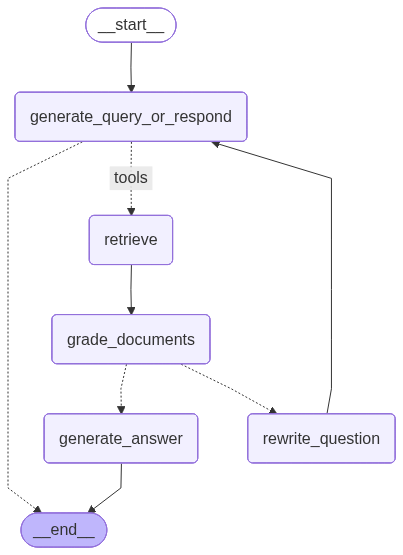
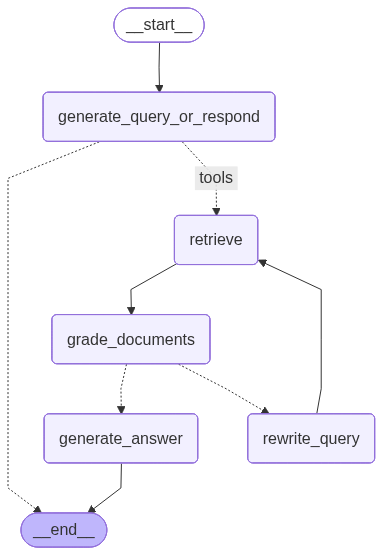
feat: enhance Agentic RAG use case with query rewriting logic and add corresponding unit test

diff --git a/multimodal_rag/usecases/langgraph_agent/agentic_rag.py b/multimodal_rag/usecases/langgraph_agent/agentic_rag.py
@@ -84,6 +84,7 @@ class AgenticRAGUseCase:
                 Retrieved document content as formatted string with chunk IDs
             """
             try:
+                query = state["search_query"] or query # prioritize the customized query in later iterations in the loop
                 vector = await self._embedding_service.embed_single(query)
 
                 chunks = await self._document_repository.search_chunks(
@@ -223,14 +224,14 @@ class AgenticRAGUseCase:
 
     def _route_after_grading(
         self, state: AgentState
-    ) -> Literal["generate_answer", "rewrite_question"]:
+    ) -> Literal["generate_answer", "rewrite_query"]:
         """Conditional edge that routes based on document relevance grading."""
         document_relevance = state.get("document_relevance", "no")
 
         if document_relevance == "yes":
             return "generate_answer"
         else:
-            return "rewrite_question"
+            return "rewrite_query"
 
     async def _rewrite_query(self, state: AgentState) -> Dict[str, str]:
         """Rewrite the original user question for better retrieval."""
@@ -299,7 +300,7 @@ class AgenticRAGUseCase:
             )
             workflow.add_node("retrieve", ToolNode([self._retriever_tool]))
             workflow.add_node("grade_documents", self._grade_documents)
-            workflow.add_node("rewrite_question", self._rewrite_query)
+            workflow.add_node("rewrite_query", self._rewrite_query)
             workflow.add_node("generate_answer", self._generate_answer)
 
             workflow.add_edge(START, "generate_query_or_respond")
@@ -321,7 +322,7 @@ class AgenticRAGUseCase:
             )
 
             workflow.add_edge("generate_answer", END)
-            workflow.add_edge("rewrite_question", "generate_query_or_respond")
+            workflow.add_edge("rewrite_query", "retrieve")
 
             checkpointer = InMemorySaver()
             self._graph = workflow.compile(checkpointer=checkpointer)

diff --git a/tests/unit/usecases/test_agentic_rag.py b/tests/unit/usecases/test_agentic_rag.py
@@ -117,6 +117,37 @@ class TestAgenticRAGUseCase:
         mock_document_repository.search_chunks.assert_called()
 
     @pytest.mark.asyncio
+    async def test_process_question_requiring_query_rewriting(
+        self, agentic_rag_use_case, mock_document_repository, mock_llm_service
+    ):
+        """Test processing a question that requires document retrieval."""
+        mock_llm_service.generate_content_with_tools.return_value = {
+            "text": "",
+            "function_calls": [
+            {
+                "name": "retrieve_documents",
+                "args": {"query": "symptoms of type 2 diabetes mellitus"}
+            }
+            ],
+            "has_function_call": True
+        }
+        
+        mock_llm_service.generate_content.side_effect = [
+            "no",  # Document grading response
+            "symptoms of type 2 diabetes mellitus diagnosis criteria", # Rewritten query
+            "yes",
+            "Machine learning is a subset of artificial intelligence."
+        ]
+        
+        response = await agentic_rag_use_case.process_message(
+            "What is machine learning?"
+        )
+
+        assert isinstance(response, AgentResponse)
+        assert response.content is not None
+        mock_document_repository.search_chunks.assert_called()
+
+    @pytest.mark.asyncio
     async def test_process_with_conversation_history(self, agentic_rag_use_case):
         """Test processing a message with conversation history."""
         history = [
